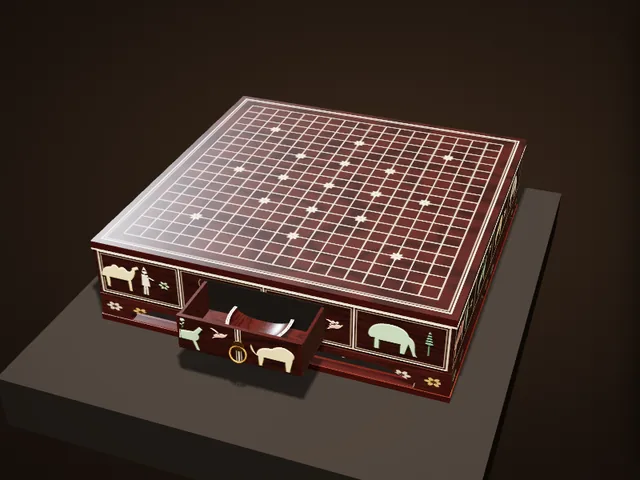
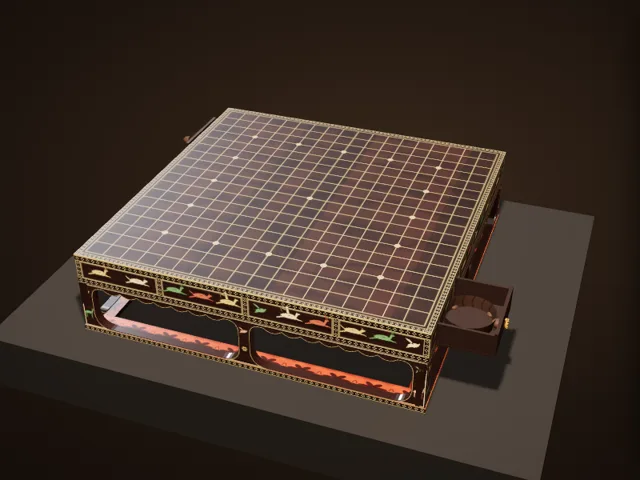
博物館：木画紫檀棊局を正倉院の写真に合わせて作り直し（盤面の花眼配置・側面の菱文帯と狩猟図・床脚の刳り形・引き出し位置）
Claude-Session: https://claude.ai/code/session_01EiWRAZTxRF5M5nk5vdR2jJ

diff --git a/atlas/museum/ex/shosoin.js b/atlas/museum/ex/shosoin.js
@@ -1,50 +1,23 @@
-/* 所蔵品：木画紫檀棊局（正倉院 北倉36） — units: 1 = 1 cm, about 48 cm square and 12.7 cm high.
-   After the Shōsōin's published notes: a go board veneered with shitan (red sandalwood) over a pine core, the playing face
-   ruled 19 × 19 with ivory and set with 17 flower-shaped points (花眼) instead of the usual nine; the sides and legs in marquetry
-   (木画) of plants, animals — camels and elephants among them —, people and mythical creatures; two drawers, on the sides
-   where the players sit, each holding a tray for the stones, one shaped like a turtle and one like a soft-shelled turtle,
-   linked by a crank inside so that pulling one pushes out the other.
-   The exact placing of the 17 points and the pictures on the sides are drawn after photographs in the manner of the piece
-   (estimates where the record is silent); the drawer on the near side is shown a little open with its turtle tray. */
+/* 所蔵品：木画紫檀棊局（正倉院 北倉36） — units: 1 = 1 cm; 49.0 × 48.8 cm, 12.7 cm high (the Shōsōin's record).
+   Rebuilt after the Shōsōin's photographs (CO0000000418–436, 2026-11-21): a go board of shitan veneer, ruled 19 × 19 in ivory,
+   with 17 flower points — every third line round a square on the 4th lines from the edge, and the centre — framed by a band of
+   small ivory lozenges; a shallow body whose sides are divided into four panels by bands of lozenges, each panel with figures in
+   dyed ivory (birds, deer, a lion, camels, horsemen, flowers); two drawers, at diagonally opposite ends of two opposite sides,
+   with a beaded gilt ring pull, holding turtle-shaped trays; the body on a 床脚: on each side two openings with cusped tops,
+   a post between them and the corner legs set with small birds and deer, all standing on a floor rail faced on top with 華角
+   (horn over red, with dark flowers). Heights measured on the photographs: body 4.6, base 8.1 (rail included) — estimates;
+   the figures are drawn after the photographs, not traced. */
 (function () {
   'use strict';
   (window.AtlasEx = window.AtlasEx || {}).shosoin = {
     build(TT, X, K) {
       const G = new TT.Group();
-      const S = 48, H = 12.7, BASE = 4.4, TOPT = 1.0;   // side, height, the open base under the body, the top slab
-      const BODY = H - BASE;                           // the body that holds the drawers
-      /* ---------- shitan veneer (deep purple-brown with dark streaks and a soft sheen) ---------- */
-      const shT = K.tex(1024, 1024, (g, w, h) => K.grain(g, w, h, { a: '#4a1c14', b: '#2a0e0a', seed: 21, sx: .6, sy: 5, warp: .9, pores: .004 }));
+      const S = 48.9, H = 12.7, RAIL = .8, BASE = 8.1, BODY = H - BASE, TOP = .15;
+      const shT = K.tex(1024, 1024, (g, w, h) => K.grain(g, w, h, { a: '#331b14', b: '#20100b', seed: 21, sx: .5, sy: 9, warp: .35, pores: .003 }));
       const shR = K.tex(256, 256, (g, w, h) => K.grain(g, w, h, { a: '#7a7a7a', b: '#4e4e4e', seed: 22, sy: 14 }), { data: true });
       const shitan = K.mat({ map: shT, roughnessMap: shR, color: '#ffffff', roughness: .5, clearcoat: .4, clearcoatRoughness: .35 });
-      const ivory = K.mat({ color: '#efe4cc', roughness: .4, clearcoat: .25, clearcoatRoughness: .4 });
-      /* ---------- the playing face: 19 × 19 ivory lines, 17 flower points, an ivory border ---------- */
-      const N = 19, M = 3.1, P = (S - 2 * M) / (N - 1);   // margin to the outer line, line pitch (≈ 2.32 cm)
-      const faceT = K.tex(2048, 2048, (g, w) => {
-        g.drawImage(shT.image, 0, 0, w, w);
-        const s = w / S, ivoryC = '#f1e6cf';
-        g.fillStyle = 'rgba(20,4,8,.18)'; g.fillRect(0, 0, w, w);
-        // an inlaid border band a little inside the edge
-        g.strokeStyle = ivoryC; g.lineWidth = s * .16; g.strokeRect(s * 1.05, s * 1.05, w - s * 2.1, w - s * 2.1);
-        g.lineWidth = s * .06; g.strokeRect(s * 1.4, s * 1.4, w - s * 2.8, w - s * 2.8);
-        // the lines (ivory strips: slightly uneven width, a darker joint each side)
-        for (let i = 0; i < N; i++) {
-          const p = (M + i * P) * s, lw = s * (.085 + (i % 3) * .006);
-          g.fillStyle = 'rgba(25,10,5,.5)'; g.fillRect(M * s - lw, p - lw / 2 - s * .02, (S - 2 * M) * s + 2 * lw, lw + s * .04); g.fillRect(p - lw / 2 - s * .02, M * s - lw, lw + s * .04, (S - 2 * M) * s + 2 * lw);
-          g.fillStyle = ivoryC; g.fillRect(M * s - lw / 2, p - lw / 2, (S - 2 * M) * s + lw, lw); g.fillRect(p - lw / 2, M * s - lw / 2, lw, (S - 2 * M) * s + lw);
-        }
-        // 17 flower points: the nine of today and eight more between them (placing estimated)
-        const pts = [[3, 3], [3, 9], [3, 15], [9, 3], [9, 9], [9, 15], [15, 3], [15, 9], [15, 15], [6, 6], [6, 12], [12, 6], [12, 12], [9, 6], [6, 9], [12, 9], [9, 12]];
-        pts.forEach(([a, b]) => {
-          const cx = (M + a * P) * s, cy = (M + b * P) * s, R = s * .78;
-          g.save(); g.translate(cx, cy);
-          for (let k = 0; k < 8; k++) { g.rotate(Math.PI / 4); g.beginPath(); g.ellipse(R * .55, 0, R * .5, R * .2, 0, 0, 6.29); g.fillStyle = k % 2 ? '#f4ead6' : '#e8d7b4'; g.fill(); }
-          g.beginPath(); g.arc(0, 0, R * .26, 0, 6.29); g.fillStyle = '#c98a4a'; g.fill(); g.restore();
-        });
-      });
-      const faceMat = K.mat({ map: faceT, color: '#ffffff', roughness: .45, clearcoat: .45, clearcoatRoughness: .3 });
-      /* ---------- the marquetry of the sides: a dark field framed by ivory, scenes in light woods, ivory and stained ivory ---------- */
-      const C = { iv: '#efe3c8', box: '#d9b46a', grn: '#5e8d6a', red: '#b4493a', dk: '#3a1a10', tan: '#b98a55' };
+      const ivory = K.mat({ color: '#e9dcbc', roughness: .4, clearcoat: .25, clearcoatRoughness: .4 });
+      const C = { iv: '#e6d2a4', box: '#d9b46a', grn: '#6f9a62', red: '#c0664c', dk: '#3a1a10', tan: '#c49a5c', pink: '#d99a86' };
       const sil = (g, kind, x, y, k, col) => {   // a figure in silhouette with a few engraved lines (the 撥鏤-like detail)
         g.save(); g.translate(x, y); g.scale(k, k); g.fillStyle = col; g.strokeStyle = 'rgba(40,18,8,.55)'; g.lineWidth = .9; g.beginPath();
         if (kind === 'camel') { g.moveTo(-26, 4); g.quadraticCurveTo(-24, -14, -10, -16); g.quadraticCurveTo(-4, -26, 2, -16); g.quadraticCurveTo(8, -24, 14, -14); g.quadraticCurveTo(20, -12, 22, -22); g.lineTo(30, -26); g.lineTo(31, -21); g.lineTo(26, -18); g.quadraticCurveTo(24, -4, 18, 2);
@@ -65,89 +38,132 @@
           g.moveTo(-16, -30); g.quadraticCurveTo(-22, -21, -16, -12); g.lineTo(-15.4, -12.4); g.quadraticCurveTo(-20.6, -21, -15.4, -29.6); g.closePath(); }
         else if (kind === 'rider0') { g.moveTo(-24, 6); g.quadraticCurveTo(-22, -8, -6, -8); g.lineTo(12, -10); g.lineTo(20, -20); g.lineTo(24, -16); g.lineTo(18, -6); g.quadraticCurveTo(20, 4, 14, 6); g.lineTo(16, 22); g.lineTo(12, 22); g.lineTo(9, 7); g.lineTo(-14, 7); g.lineTo(-18, 22); g.lineTo(-22, 22); g.closePath();
           g.moveTo(-6, -8); g.lineTo(-4, -22); g.arc(-3, -25, 3.2, 0, 6.29); g.moveTo(-2, -18); g.lineTo(8, -26); }
+        else if (kind === 'runner' || kind === 'hound' || kind === 'hunter') {   // the flying gallop of the hunting scenes on the sides
+          const hd = kind === 'hound' ? [[18, -6], [24, -14], [30, -11], [33, -10], [27, -6], [20, 0]] : [[16, -7], [20, -18], [26, -17], [30, -14], [24, -12], [19, -1]];
+          g.moveTo(-20, -4); g.quadraticCurveTo(-8, -12, 10, -10); g.lineTo(hd[0][0], hd[0][1]); hd.slice(1).forEach(([a, b]) => g.lineTo(a, b));
+          g.lineTo(34, 3); g.lineTo(35, 5.5); g.lineTo(28, 4); g.lineTo(18, 3);              // forelegs stretched forward
+          g.quadraticCurveTo(0, 6, -12, 3); g.lineTo(-32, 10); g.lineTo(-33, 7.5); g.lineTo(-27, 5); g.lineTo(-18, 1);   // hind legs stretched back
+          g.quadraticCurveTo(-23, -1, -20, -4); g.closePath();
+          if (kind === 'hound') { g.moveTo(-20, -3); g.quadraticCurveTo(-30, -6, -32, -16); g.quadraticCurveTo(-27, -8, -19, -5.5); g.closePath(); g.moveTo(24, -13); g.lineTo(21, -20); g.lineTo(26, -14); g.closePath(); }
+          else { g.moveTo(-20, -4); g.lineTo(-25, -9); g.lineTo(-21, -6); g.closePath(); }
+          if (kind === 'runner') { g.moveTo(22, -18); g.lineTo(18, -30); g.lineTo(13, -33); g.lineTo(18.6, -31); g.lineTo(20, -36); g.lineTo(20.4, -30); g.lineTo(23.6, -19); g.closePath();
+            g.moveTo(24, -18); g.lineTo(27, -28); g.lineTo(32, -31); g.lineTo(28, -27); g.lineTo(25.4, -18); g.closePath(); }
+          if (kind === 'hunter') {   // the rider turns in the saddle and draws the bow backwards
+            g.moveTo(-4, -10); g.lineTo(-7, -24); g.lineTo(-1, -24); g.lineTo(2, -10); g.closePath(); g.moveTo(-1, -28); g.arc(-4, -28, 3.4, 0, 6.29);
+            g.moveTo(-5, -21); g.lineTo(-17, -23); g.lineTo(-17, -21); g.lineTo(-5, -19); g.closePath();
+            g.moveTo(-17, -33); g.quadraticCurveTo(-24, -22, -17, -11); g.lineTo(-16.2, -11.4); g.quadraticCurveTo(-22.4, -22, -16.2, -32.6); g.closePath(); }
+          g.fill('evenodd'); g.stroke(); g.beginPath(); g.moveTo(-8, -6); g.quadraticCurveTo(2, -3, 12, -6); g.moveTo(14, -4); g.lineTo(17, -12); g.stroke();   // engraved lines
+          g.fillStyle = 'rgba(40,14,6,.75)'; g.beginPath(); g.arc(kind === 'hound' ? 26 : 23.5, kind === 'hound' ? -11 : -15, 1, 0, 6.29); g.fill(); g.restore(); return; }
         else if (kind === 'tree') { g.moveTo(-1.6, 24); g.lineTo(-1.2, -2); g.lineTo(1.2, -2); g.lineTo(1.6, 24); g.closePath(); for (let i = 0; i < 5; i++) { const yy = -4 - i * 6, ww = 14 - i * 2.2; g.moveTo(0, yy - 6); g.quadraticCurveTo(ww, yy, 0, yy + 2); g.quadraticCurveTo(-ww, yy, 0, yy - 6); } }
         else if (kind === 'flower') { for (let i = 0; i < 6; i++) { const a = i * Math.PI / 3; g.moveTo(0, 0); g.ellipse(Math.cos(a) * 6, Math.sin(a) * 6, 6, 3, a, 0, 6.29); } }
         else if (kind === 'lion') { g.moveTo(-24, 4); g.quadraticCurveTo(-22, -12, -4, -12); g.quadraticCurveTo(8, -24, 20, -14); g.quadraticCurveTo(26, -8, 22, 0); g.lineTo(18, 22); g.lineTo(13, 22); g.lineTo(12, 6); g.lineTo(-14, 6); g.lineTo(-17, 22); g.lineTo(-21, 22); g.lineTo(-22, 6);
           g.quadraticCurveTo(-34, 0, -30, -12); g.quadraticCurveTo(-28, -2, -24, 4); g.closePath(); }
         g.fill('evenodd'); g.stroke(); g.restore();
       };
-      // each side is divided into four panels framed in ivory; in each, figures in dyed ivory (pale red, green, yellow) carved in low
-      // relief: pheasants, geese, lions, elephants, camels (one led by a foreigner), deer and a mounted archer, among flowering plants
-      const PAL = ['#e2a493', '#a9cfa2', '#ead69c', '#f0e4c8'];
-      const vign = [[['camel', 'man'], ['flower']], [['rider'], ['bird']], [['lion'], ['flower', 'bird']], [['elephant'], ['tree']],
-        [['deer'], ['bird']], [['bird', 'bird'], ['flower']], [['camel'], ['tree']], [['rider'], ['flower']]];
-      const drawSide = (g, w, h, seed, bump) => {
-        const s = w / S; if (bump) { g.fillStyle = '#000'; g.fillRect(0, 0, w, h); } else { g.drawImage(shT.image, 0, 0, w, h); g.fillStyle = 'rgba(14,4,4,.25)'; g.fillRect(0, 0, w, h); }
-        const iv = bump ? '#9a9a9a' : C.iv;
-        g.strokeStyle = iv; g.lineWidth = s * .16; g.strokeRect(s * .6, s * .5, w - s * 1.2, h - s * 1.0);
-        const pw = (w - s * 1.2) / 4;
-        for (let i = 0; i < 4; i++) {
-          const x0 = s * .6 + i * pw; if (i) { g.beginPath(); g.moveTo(x0, s * .5); g.lineTo(x0, h - s * .5); g.stroke(); }
-          g.save(); g.lineWidth = s * .05; g.strokeRect(x0 + s * .35, s * .85, pw - s * .7, h - s * 1.7); g.restore();
-          const v = vign[(seed * 4 + i) % vign.length], cx = x0 + pw / 2, cy = h / 2 + s * .35, k = s * .09;
-          const col = n => bump ? '#ffffff' : PAL[(seed + i + n) % PAL.length];
-          // the main figure(s), then the filler plant / bird
-          v[0].forEach((kd, n) => sil(g, kd, cx + (n - (v[0].length - 1) / 2) * pw * .34 - (v[1].length ? pw * .1 : 0), cy, k * (kd === 'bird' ? .9 : 1.12), col(n)));
-          v[1].forEach((kd, n) => sil(g, kd, cx + pw * .3, cy - s * (kd === 'bird' ? 1.3 : .2) + n * s * 1.4, k * (kd === 'tree' ? .8 : .7), kd === 'tree' ? (bump ? '#c0c0c0' : C.grn) : col(3 + n)));
+
+      // a band of small ivory lozenges (the "diamond chain" round every edge in the photographs)
+      const chain = (g, x0, y0, len, wd, vert) => { g.save(); g.translate(x0, y0); if (vert) g.rotate(Math.PI / 2);
+        g.fillStyle = 'rgba(14,6,4,.35)'; g.fillRect(0, 0, len, wd); g.fillStyle = '#d8bb7c'; g.fillRect(0, 0, len, wd * .07); g.fillRect(0, wd * .93, len, wd * .07);
+        // each motif is a lozenge of four small ivory squares (as on the photographed sides), a dark dot in the middle
+        const n = Math.max(1, Math.round(len / (wd * .95))), q = wd * .13;
+        for (let i = 0; i < n; i++) { const cx = (i + .5) * len / n, cy = wd / 2; g.save(); g.translate(cx, cy); g.rotate(Math.PI / 4); g.fillStyle = '#e4d2a2';
+          [[-1, -1], [1, -1], [-1, 1], [1, 1]].forEach(([u, v]) => g.fillRect(u * q * 1.15 - q / 2, v * q * 1.15 - q / 2, q, q)); g.restore(); }
+        g.restore(); };
+      /* ---------- the playing face ---------- */
+      const N = 19, BAND = .7, M = 1.15, P = (S - 2 * M) / (N - 1);
+      const faceT = K.tex(2048, 2048, (g, w) => {
+        g.drawImage(shT.image, 0, 0, w, w); const s = w / S;
+        // the veneer is laid in strips running across the board, each a little different in tone (as in the top photograph)
+        let sx0 = 0, sd = 7; const rnd = () => (sd = (sd * 16807) % 2147483647) / 2147483647;
+        while (sx0 < w) { const sw = s * (1.6 + rnd() * 2.2), t = rnd(); g.fillStyle = t < .5 ? `rgba(10,3,2,${.1 + t * .35})` : `rgba(120,40,30,${(t - .5) * .22})`; g.fillRect(sx0, 0, sw, w); sx0 += sw; }
+        chain(g, 0, 0, w, BAND * s, false); chain(g, 0, w - BAND * s, w, BAND * s, false); chain(g, BAND * s, 0, w, BAND * s, true); chain(g, w, 0, w, BAND * s, true);
+        for (let i = 0; i < N; i++) { const p = (M + i * P) * s, lw = s * .055;
+          g.fillStyle = 'rgba(20,8,4,.5)'; g.fillRect(M * s - lw, p - lw / 2 - s * .02, (S - 2 * M) * s + 2 * lw, lw + s * .04); g.fillRect(p - lw / 2 - s * .02, M * s - lw, lw + s * .04, (S - 2 * M) * s + 2 * lw);
+          g.fillStyle = '#d6bd88'; g.fillRect(M * s - lw / 2, p - lw / 2, (S - 2 * M) * s + lw, lw); g.fillRect(p - lw / 2, M * s - lw / 2, lw, (S - 2 * M) * s + lw); }
+        // 17 flower points (from the top photograph): lines 4, 7, 10, 13, 16 round a square on the 4th lines, and the centre
+        const pts = [[9, 9]]; [3, 6, 9, 12, 15].forEach(k => { pts.push([3, k], [15, k]); if (k !== 3 && k !== 15) pts.push([k, 3], [k, 15]); });
+        pts.forEach(([a, b]) => { const cx = (M + a * P) * s, cy = (M + b * P) * s, R = s * .42; g.save(); g.translate(cx, cy);
+          g.beginPath(); g.arc(0, 0, R, 0, 6.29); g.fillStyle = '#2a140c'; g.fill();
+          g.beginPath(); g.arc(0, 0, R * .82, 0, 6.29); g.strokeStyle = '#e2cf9e'; g.lineWidth = R * .22; g.stroke();   // an ivory ring (the flower's rim)
+          for (let k = 0; k < 8; k++) { g.rotate(Math.PI / 4); g.beginPath(); g.ellipse(R * .4, 0, R * .26, R * .1, 0, 0, 6.29); g.fillStyle = '#c9a56c'; g.fill(); }
+          g.beginPath(); g.arc(0, 0, R * .16, 0, 6.29); g.fillStyle = '#ecdcb4'; g.fill(); g.restore(); });
+      });
+      const faceMat = K.mat({ map: faceT, color: '#ffffff', roughness: .55, clearcoat: .12, clearcoatRoughness: .4 });
+      /* ---------- the body's sides: lozenge bands, four panels of figures in dyed ivory ---------- */
+      const VIGN = [   // after the photographs: running deer and hounds, mounted archers, birds; camels led by a foreigner on one side
+        [['runner', 1], ['hound', 2]], [['runner', 0], ['hound', 3], ['hunter', 1]], [['bird', 0], ['hunter', 2], ['runner', 3]], [['hound', 1], ['runner', 0], ['bird', 2]],
+        [['man', 1], ['camel', 0], ['camel', 3]], [['hunter', 0], ['runner', 2]], [['runner', 3], ['hound', 0], ['bird', 1]], [['flower', 2], ['hunter', 3], ['hound', 0]],
+      ];
+      const PAL = [C.iv, C.red, C.grn, '#d8b878'];
+      const sideTex = (seed, drawerAt) => K.tex(2048, Math.round(2048 * (BODY - TOP) / S), (g, w, h) => {
+        g.drawImage(shT.image, 0, 0, w, h); const s = w / S, cb = s * .85;
+        chain(g, 0, 0, w, cb, false); chain(g, 0, h - cb, w, cb, false);
+        const pw = w / 4;
+        for (let i = 0; i < 4; i++) { const x0 = i * pw;
+          chain(g, x0 + s * .75, cb, h - 2 * cb, s * .75, true);
+          g.strokeStyle = C.iv; g.lineWidth = s * .05; g.strokeRect(x0 + s * .85, cb + s * .1, pw - s * .95, h - 2 * cb - s * .2);
+          const v = VIGN[(seed * 4 + i) % VIGN.length], cy = h / 2;
+          v.forEach(([kd, c], n) => { const x = x0 + s * .6 + (n + .5) * (pw - s * .7) / v.length; sil(g, kd, x, cy, s * (kd === 'flower' ? .05 : kd === 'camel' || kd === 'man' ? .05 : .052), kd === 'flower' ? C.grn : PAL[(c + seed) % 4]); });
         }
-        // small six-petalled flowers along the frame (ebony centres, ivory petals)
-        for (let i = 0; i < 26; i++) { const x = s * 1.6 + i * (w - s * 3.2) / 25; [s * .5, h - s * .5].forEach(y => { g.beginPath(); g.arc(x, y, s * .11, 0, 6.29); g.fillStyle = bump ? '#808080' : C.box; g.fill(); }); }
+        chain(g, w, cb, h - 2 * cb, s * .75, true);
+      });
+      const sides = [0, 1, 2, 3].map(i => K.mat({ map: sideTex(i), color: '#ffffff', roughness: .48, clearcoat: .35, clearcoatRoughness: .35 }));
+      const add = (geo, m, x, y, z) => { const o = new TT.Mesh(geo, m); o.position.set(x, y, z); G.add(o); return o; };
+      add(new TT.BoxGeometry(S, BODY - TOP, S), [sides[0], sides[1], shitan, shitan, sides[2], sides[3]], 0, BASE + (BODY - TOP) / 2, 0);
+      const edgeT = K.tex(1024, 64, (g, w, h) => { g.fillStyle = '#c9a564'; g.fillRect(0, 0, w, h); g.fillStyle = 'rgba(50,24,8,.5)'; for (let x = 0; x < w; x += 8) g.fillRect(x, h * .35, 3, h * .3); });
+      const edgeM = K.mat({ map: edgeT, color: '#ffffff', roughness: .45, clearcoat: .35 });
+      add(new TT.BoxGeometry(S + .1, TOP, S + .1), [edgeM, edgeM, faceMat, shitan, edgeM, edgeM], 0, H - TOP / 2, 0);
+      /* ---------- the 床脚: corner legs, a post in the middle of each side, openings with cusped tops, the floor rail ---------- */
+      const LEG = 1.8, POST = 1.6, OH = BASE - RAIL - .05;   // leg / post width; the openings' height (the cusps hang right under the body)
+      const skirt = new TT.Shape(); skirt.moveTo(-S / 2, 0); skirt.lineTo(S / 2, 0); skirt.lineTo(S / 2, BASE - RAIL); skirt.lineTo(-S / 2, BASE - RAIL); skirt.closePath();
+      const open = (x0, x1) => { const p = new TT.Path(), rb = 2.6, rt = 2.0, top = OH, xa0 = x0 + rt, xa1 = x1 - rt, nC = 7, cw = (xa1 - xa0) / nC;
+        // a rounded opening: large curves at the bottom corners, a big arc at each upper end, and a row of cusps along the top (photographs)
+        p.moveTo(x0 + rb, 0); p.lineTo(x1 - rb, 0); p.quadraticCurveTo(x1, 0, x1, rb); p.lineTo(x1, top - rt - .4); p.quadraticCurveTo(x1, top - .2, xa1, top - .5);
+        for (let i = nC; i > 0; i--) { const xa = xa0 + i * cw, xb = xa - cw; p.quadraticCurveTo((xa + xb) / 2, top - 1.5, xb, top - .5); }
+        p.quadraticCurveTo(x0, top - .2, x0, top - rt - .4); p.lineTo(x0, rb); p.quadraticCurveTo(x0, 0, x0 + rb, 0); return p; };
+      const half = (S - 2 * LEG - POST) / 2;
+      skirt.holes.push(open(-S / 2 + LEG, -S / 2 + LEG + half), open(S / 2 - LEG - half, S / 2 - LEG));
+      const skG = new TT.ExtrudeGeometry(skirt, { depth: 1.2, bevelEnabled: true, bevelThickness: .06, bevelSize: .06, bevelSegments: 1, curveSegments: 10 });
+      // the legs' faces: dark shitan edged in ivory, little birds and deer set into the legs and the post
+      const legT = K.tex(2048, Math.round(2048 * (BASE - RAIL) / S), (g, w, h) => { g.drawImage(shT.image, 0, 0, w, h); const s = w / S;
+        g.strokeStyle = C.iv; g.lineWidth = s * .08; g.strokeRect(s * .15, s * .1, w - s * .3, h - s * .2);
+        g.strokeStyle = '#d8bb7c'; g.lineWidth = s * .09; skirt.holes.forEach(hp => { g.beginPath(); hp.getPoints(24).forEach((p, i) => { const X = (p.x + S / 2) * s, Y = h - p.y * s; i ? g.lineTo(X, Y) : g.moveTo(X, Y); }); g.closePath(); g.stroke(); });
+        [[LEG / 2, 'bird', .8], [LEG / 2, 'deer', .3], [S / 2, 'bird', .75], [S / 2, 'flower', .35], [S - LEG / 2, 'bird', .8], [S - LEG / 2, 'deer', .3]].forEach(([x, kd, fy], i) => sil(g, kd, x * s, h * (1 - fy), s * .035, [C.box, C.grn, C.pink][i % 3])); });
+      legT.repeat.set(1 / S, 1 / (BASE - RAIL)); legT.offset.set(.5, 0);
+      const legM = K.mat({ map: legT, color: '#ffffff', roughness: .5, clearcoat: .35, clearcoatRoughness: .35 });
+      for (let i = 0; i < 4; i++) { const m = new TT.Mesh(skG, [legM, shitan]), a = i * Math.PI / 2; m.position.set(Math.sin(a) * (S / 2 - 1.2), RAIL, Math.cos(a) * (S / 2 - 1.2)); m.rotation.y = a; G.add(m); }
+      add(new TT.BoxGeometry(S - 2.4, .5, S - 2.4), shitan, 0, BASE - .25, 0);   // the floor of the body
+      // the floor rail: horn over red (華角), dark flowers; its outer faces with the lozenge band
+      const kakT = K.tex(1024, 128, (g, w, h) => { g.fillStyle = '#9c3a24'; g.fillRect(0, 0, w, h); const n = K.noise(5);
+        for (let x = 0; x < w; x += 4) for (let y = 0; y < h; y += 4) { const v = n(x / 40, y / 40, 3); g.fillStyle = `rgba(230,110,50,${(v - .5) * .4 + .08})`; g.fillRect(x, y, 4, 4); }
+        for (let i = 0; i < 10; i++) { const cx = (i + .5) * w / 10, cy = h / 2; g.fillStyle = 'rgba(40,14,8,.85)'; for (let k = 0; k < 6; k++) { const a = k / 6 * 6.283; g.beginPath(); g.ellipse(cx + Math.cos(a) * h * .18, cy + Math.sin(a) * h * .18, h * .14, h * .07, a, 0, 6.29); g.fill(); }
+          g.beginPath(); g.arc(cx, cy, h * .08, 0, 6.29); g.fill(); g.strokeStyle = 'rgba(40,14,8,.7)'; g.lineWidth = 3; g.beginPath(); g.moveTo(cx + h * .35, cy); g.quadraticCurveTo(cx + w / 20, cy - h * .35, cx + w / 10 - h * .35, cy); g.stroke(); } });
+      const kak = K.mat({ map: kakT, color: '#ffffff', roughness: .28, clearcoat: .85, clearcoatRoughness: .18 });
+      const railSide = K.tex(2048, Math.round(2048 * RAIL / S), (g, w, h) => { g.drawImage(shT.image, 0, 0, w, h); chain(g, 0, 0, w, h, false); });
+      const rsM = K.mat({ map: railSide, color: '#ffffff', roughness: .45, clearcoat: .35 });
+      const RW = 3.0;
+      [[S + .3, RW, 0, S / 2 - RW / 2 + .15], [S + .3, RW, 0, -S / 2 + RW / 2 - .15]].forEach(([w, d, x, z]) => add(new TT.BoxGeometry(w, RAIL, d), [rsM, rsM, kak, shitan, z > 0 ? rsM : shitan, z > 0 ? shitan : rsM], x, RAIL / 2, z));
+      [[RW, S - 2 * RW + .3, S / 2 - RW / 2 + .15, 0], [RW, S - 2 * RW + .3, -S / 2 + RW / 2 - .15, 0]].forEach(([w, d, x, z]) => { const k2 = kak.clone(); k2.map = kakT.clone(); k2.map.center.set(.5, .5); k2.map.rotation = Math.PI / 2; k2.map.needsUpdate = true; add(new TT.BoxGeometry(w, RAIL, d), [x > 0 ? rsM : shitan, x > 0 ? shitan : rsM, k2, shitan, shitan, shitan], x, RAIL / 2, z); });
+      /* ---------- the drawers: at diagonally opposite ends of the two side faces (±x); the near one pulled out ---------- */
+      const DW = 10.5, DH = BODY - TOP - .9, OUT = 7.2, gilt = K.mat({ color: '#d6a84c', roughness: .3, metalness: 1 });
+      const dark = K.mat({ color: '#2a1810', roughness: .6 });
+      const DG = new TT.Group(); DG.rotation.y = 0; G.add(DG);
+      const drawer = (sx, z, out) => { const g2 = new TT.Group(); g2.position.set(sx * (S / 2 + out), BASE + (BODY - TOP) / 2, z); g2.rotation.y = sx > 0 ? Math.PI / 2 : -Math.PI / 2; DG.add(g2);
+        const f = new TT.Mesh(new TT.BoxGeometry(DW, DH, .45), dark); g2.add(f);
+        const ring = new TT.Mesh(new TT.TorusGeometry(.55, .13, 8, 24), gilt); ring.position.set(0, -.35, .5); g2.add(ring);
+        for (let k = 0; k < 10; k++) { const a = k / 10 * 6.283, b = new TT.Mesh(new TT.SphereGeometry(.12, 8, 6), gilt); b.position.set(Math.cos(a) * .55, -.35 + Math.sin(a) * .55, .62); g2.add(b); }   // the beaded ring
+        const knob = new TT.Mesh(new TT.SphereGeometry(.22, 10, 8), gilt); knob.position.set(0, .25, .4); g2.add(knob);
+        if (out > .1) { const sd = new TT.BoxGeometry(.35, DH - .3, out + 1); [-DW / 2 + .2, DW / 2 - .2].forEach(x => { const m = new TT.Mesh(sd, dark); m.position.set(x, -.15, -(out + 1) / 2); g2.add(m); });
+          const bt = new TT.Mesh(new TT.BoxGeometry(DW, .3, out + 1), dark); bt.position.set(0, -DH / 2 + .15, -(out + 1) / 2); g2.add(bt);
+          // the turtle tray: a round open bowl with a shell-segmented rim, head and feet
+          const tr = new TT.Group(); tr.position.set(0, -DH / 2 + .3, -out / 2 - .6); g2.add(tr);
+          const rimT = K.tex(512, 64, (g, w, h) => { g.fillStyle = '#3a2418'; g.fillRect(0, 0, w, h); g.strokeStyle = '#1a0c06'; g.lineWidth = 3; for (let x = 0; x < w; x += 32) { g.beginPath(); g.moveTo(x, 0); g.lineTo(x + 8, h / 2); g.lineTo(x, h); g.stroke(); } });
+          const bowl = new TT.Mesh(new TT.CylinderGeometry(3.4, 3.1, 1.8, 40, 1, true), K.mat({ map: rimT, color: '#ffffff', roughness: .55, side: TT.DoubleSide })); bowl.position.y = .9; tr.add(bowl);
+          const inner = new TT.Mesh(new TT.CircleGeometry(3.1, 40), dark); inner.rotation.x = -Math.PI / 2; inner.position.y = .2; tr.add(inner);
+          const hd = new TT.Mesh(new TT.SphereGeometry(.75, 14, 10), K.mat({ color: '#4a2a18', roughness: .5 })); hd.scale.set(1, .8, 1.3); hd.position.set(0, .9, 3.8); tr.add(hd);
+          [[2.4, 2.4], [-2.4, 2.4], [2.4, -2.4], [-2.4, -2.4]].forEach(([x, z]) => { const ft = new TT.Mesh(new TT.SphereGeometry(.6, 10, 8), K.mat({ color: '#4a2a18', roughness: .5 })); ft.scale.set(1.2, .5, .9); ft.position.set(x, .3, z); tr.add(ft); }); }
       };
-      const sideTex = seed => K.tex(2048, Math.round(2048 * BODY / S), (g, w, h) => drawSide(g, w, h, seed, false));
-      const sideBump = seed => K.tex(1024, Math.round(1024 * BODY / S), (g, w, h) => drawSide(g, w, h, seed, true), { data: true });
-      const sides = [0, 1, 2, 3].map(i => K.mat({ map: sideTex(i), bumpMap: sideBump(i), bumpScale: 2.2, color: '#ffffff', roughness: .48, clearcoat: .35, clearcoatRoughness: .35 }));
-      /* ---------- the body: top slab with the face, the decorated sides ---------- */
-      const body = new TT.Mesh(new TT.BoxGeometry(S, BODY - TOPT, S), [sides[0], sides[1], shitan, shitan, sides[2], sides[3]]);
-      body.position.y = BASE + (BODY - TOPT) / 2; G.add(body);
-      const top = new TT.Mesh(new TT.BoxGeometry(S + .3, TOPT, S + .3), [shitan, shitan, faceMat, shitan, shitan, shitan]); top.position.y = H - TOPT / 2; G.add(top);
-      // ivory edging round the top slab
-      const edge = (w, d, x, z) => { const m = new TT.Mesh(new TT.BoxGeometry(w, .22, d), ivory); m.position.set(x, H - TOPT - .11, z); G.add(m); };
-      edge(S + .34, .12, 0, S / 2 + .15); edge(S + .34, .12, 0, -S / 2 - .15); edge(.12, S + .34, S / 2 + .15, 0); edge(.12, S + .34, -S / 2 - .15, 0);
-      /* ---------- the base: a skirt on each side cut with two cusped arches (格狭間), the corners as feet ---------- */
-      const skirt = new TT.Shape(); skirt.moveTo(-S / 2, 0); skirt.lineTo(S / 2, 0); skirt.lineTo(S / 2, BASE); skirt.lineTo(-S / 2, BASE); skirt.closePath();
-      const arch = (cx, w, h) => { const p = new TT.Path(), x0 = cx - w / 2, x1 = cx + w / 2, y0 = 0, y1 = h;
-        p.moveTo(x0 + .5, y0); p.lineTo(x1 - .5, y0); p.quadraticCurveTo(x1, y0 + .1, x1 - .1, y0 + h * .35); p.quadraticCurveTo(x1 - w * .12, y0 + h * .55, x1 - w * .2, y1 - .5);
-        p.quadraticCurveTo(cx + w * .12, y1 + .1, cx + w * .02, y1 - .55); p.quadraticCurveTo(cx, y1 - .2, cx - w * .02, y1 - .55); p.quadraticCurveTo(cx - w * .12, y1 + .1, x0 + w * .2, y1 - .5);
-        p.quadraticCurveTo(x0 + w * .12, y0 + h * .55, x0 + .1, y0 + h * .35); p.quadraticCurveTo(x0, y0 + .1, x0 + .5, y0); return p; };
-      skirt.holes.push(arch(-S / 4 + .8, S / 2 - 6.5, BASE - 1.1), arch(S / 4 - .8, S / 2 - 6.5, BASE - 1.1));
-      const skG = new TT.ExtrudeGeometry(skirt, { depth: 1.1, bevelEnabled: true, bevelThickness: .08, bevelSize: .08, bevelSegments: 2, curveSegments: 12 });
-      const legT = K.tex(1024, 128, (g, w, h) => { g.drawImage(shT.image, 0, 0, w, h); for (let i = 0; i < 12; i++) { const x = (i + .5) * w / 12; sil(g, 'flower', x, h * .5, h / 60, i % 2 ? C.box : C.iv); } });
-      legT.repeat.set(1 / S, 1 / BASE); legT.offset.set(.5, 0);
-      const legMat = K.mat({ map: legT, color: '#ffffff', roughness: .5, clearcoat: .35, clearcoatRoughness: .35 });
-      // the floor rail (畳摺) the skirts stand on: its top faced with 華角 (thin dyed horn, a translucent amber-red)
-      const RAIL = .9, kakaku = K.mat({ color: '#7a2a18', roughness: .32, clearcoat: .8, clearcoatRoughness: .2 });
-      [[S + .4, S / 2 - .7, 0], [S + .4, -S / 2 + .7, 0]].forEach(([w, z]) => { const r = new TT.Mesh(new TT.BoxGeometry(w, RAIL, 1.8), [shitan, shitan, kakaku, shitan, shitan, shitan]); r.position.set(0, RAIL / 2, z); G.add(r); });
-      [[S / 2 - .7], [-S / 2 + .7]].forEach(([x]) => { const r = new TT.Mesh(new TT.BoxGeometry(1.8, RAIL, S - 3.2), [shitan, shitan, kakaku, shitan, shitan, shitan]); r.position.set(x, RAIL / 2, 0); G.add(r); });
-      for (let i = 0; i < 4; i++) {
-        const m = new TT.Mesh(skG, [legMat, shitan]); const a = i * Math.PI / 2;
-        m.position.set(Math.sin(a) * (S / 2 - 1.1), RAIL, Math.cos(a) * (S / 2 - 1.1)); m.scale.y = (BASE - RAIL) / BASE; m.rotation.y = a; G.add(m);
-      }
-      const floor = new TT.Mesh(new TT.BoxGeometry(S - 2.2, .6, S - 2.2), shitan); floor.position.y = BASE - .3; G.add(floor);
-      /* ---------- the near drawer, a little open, with the turtle tray ---------- */
-      const DW = 16, DH = BODY - TOPT - 2.4, OUT = 7.5;
-      // the drawer front carries its own slice of the side's marquetry (so the panels run on when it is shut)
-      const slice = (m) => { const c = m.clone(), BH = BODY - TOPT; ['map', 'bumpMap'].forEach(k => { const t = m[k].clone(); t.repeat.set(DW / S, DH / BH); t.offset.set((S - DW) / 2 / S, 1.2 / BH); t.needsUpdate = true; c[k] = t; }); return c; };
-      const dfM = slice(sides[0]);
-      const dFront = new TT.Mesh(new TT.BoxGeometry(DW, DH, .5), [shitan, shitan, shitan, shitan, dfM, shitan]); dFront.position.set(0, BASE + 1.2 + DH / 2, S / 2 + OUT); G.add(dFront);
-      const dSide = new TT.BoxGeometry(.4, DH - .2, OUT + .5); [-DW / 2 + .2, DW / 2 - .2].forEach(x => { const m = new TT.Mesh(dSide, shitan); m.position.set(x, BASE + 1.2 + DH / 2 - .1, S / 2 + OUT / 2); G.add(m); });
-      const dBot = new TT.Mesh(new TT.BoxGeometry(DW, .3, OUT + .5), shitan); dBot.position.set(0, BASE + 1.35, S / 2 + OUT / 2); G.add(dBot);
-      // the opening it leaves in the side (a dark shadow box)
-      // the drawers' gilt ring pulls (the inventory: "rings on both sides of the board"); the far drawer is shut
-      const gilt = K.mat({ color: '#d4a64a', roughness: .3, metalness: 1 });
-      const pull = (z, out) => { const g = new TT.Group(); g.position.set(0, BASE + 1.2 + DH / 2, z); g.rotation.y = out > 0 ? 0 : Math.PI;
-        const plate = new TT.Mesh(new TT.CylinderGeometry(.75, .75, .12, 20), gilt); plate.rotation.x = Math.PI / 2; plate.position.z = .3; g.add(plate);
-        const ring = new TT.Mesh(new TT.TorusGeometry(1.05, .12, 10, 28), gilt); ring.position.set(0, -1.05, .52); ring.rotation.x = -.25; g.add(ring); G.add(g); };
-      pull(S / 2 + OUT, 1); pull(-S / 2, -1);
-      const farF = new TT.Mesh(new TT.BoxGeometry(DW, DH, .05), [shitan, shitan, shitan, shitan, shitan, slice(sides[1])]); farF.position.set(0, BASE + 1.2 + DH / 2, -S / 2 - .03); G.add(farF);
-      const hole = new TT.Mesh(new TT.BoxGeometry(DW + .1, DH + .1, .4), K.mat({ color: '#0d0705', roughness: 1 })); hole.position.set(0, BASE + 1.2 + DH / 2, S / 2 - .1); G.add(hole);
-      // the turtle tray: a shallow shell-shaped dish with head, feet and tail, in shitan with ivory rims
-      const tr = new TT.Group();
-      const bowl = shitan.clone(); bowl.side = TT.DoubleSide;
-      const shell = new TT.Mesh(new TT.SphereGeometry(1, 40, 16, 0, Math.PI * 2, 0, Math.PI / 2), bowl); shell.scale.set(6.2, 1.6, 4.6); shell.rotation.x = Math.PI; shell.position.y = 1.7; tr.add(shell);
-      const rim = new TT.Mesh(new TT.TorusGeometry(1, .06, 8, 48), ivory); rim.rotation.x = Math.PI / 2; rim.scale.set(6.2, 4.6, 1); rim.position.y = 1.7; tr.add(rim);
-      const head = new TT.Mesh(new TT.SphereGeometry(.9, 16, 12), shitan); head.scale.set(1.5, .8, 1); head.position.set(7, 1.2, 0); tr.add(head);
-      [[4, 3.8], [4, -3.8], [-4, 3.8], [-4, -3.8]].forEach(([x, z]) => { const f = new TT.Mesh(new TT.SphereGeometry(.8, 12, 8), shitan); f.scale.set(1.3, .5, .9); f.position.set(x, .6, z); tr.add(f); });
-      tr.rotation.y = Math.PI / 2; tr.position.set(0, BASE + 1.5, S / 2 + OUT - 6.4); tr.scale.setScalar(.85); G.add(tr);
+      drawer(1, S / 2 - DW / 2 - 3.2, OUT); drawer(-1, -S / 2 + DW / 2 + 3.2, 1.2);
       return G;
     },
   };

diff --git a/atlas/museum/gallery-en.js b/atlas/museum/gallery-en.js
@@ -38,7 +38,7 @@
         ['The turtle tray', 'The stone holder in the drawer. The other drawer holds one shaped like a soft-shelled turtle.'],
         ['The gilt rings', 'The rings that pull the drawers — the 756 inventory notes "rings set on both sides of the board".'],
         ['The base and its rail', 'The top of the rail under the base is faced with kakaku, thin sheets of horn.']],
-      model: 'The size, the 19 lines and 17 flower points, the four panels on each side and their dyed-ivory subjects, the drawers with their turtle trays and linked mechanism, the rings and the horn-faced rail follow the record and published descriptions. The exact placing of the flower points, which figures go in which panel and how they are drawn, the shape of the base and the size of the rings are estimates. The near drawer is shown a little open.',
+      model: 'Built by comparing with the Shōsōin\'s published photographs (top, oblique, each side, the drawers). The size, the 19 lines and the placing of the 17 flower points, the shitan grain, the lozenge bands, the hunting scenes in the four panels of each side (running deer and hounds, mounted archers turning to shoot, a foreigner leading camels), the two drawers at diagonally opposite corners with their rings, the cut-out openings of the base with their row of small cusps, and the horn-faced floor rail follow the photographs. How each figure is drawn, the details of the turtle tray and the depth of the drawers are estimates. The near drawer is shown open.',
       src: [['Shōsōin, "木画紫檀碁局"', 'https://shosoin.kunaicho.go.jp/treasures/?id=0000010084'], ['Shōsōin bulletin, “The Go Game Board of Red Sandalwood with Marquetry and its Box”', 'https://shosoin.kunaicho.go.jp/api/bulletins/35/pdf/0354113116'], ['Baidu Baike, "木画紫檀棋局" (the side panels, the rings)', 'https://baike.baidu.com/item/%E6%9C%A8%E7%94%BB%E7%B4%AB%E6%AA%80%E6%A3%8B%E5%B1%80/18040591']] },
     sugoroku: { name: 'Shitan Sugoroku Board with Marquetry', alt: 'Emperor Shōmu\'s board: the oldest sugoroku board in Japan', date: '8th century (Nara period)', where: 'Japan (Nara)', found: 'Listed in the Kokka chinpō-chō, the inventory of Emperor Shōmu\'s belongings offered to the Great Buddha of Tōdai-ji; its storage case survives too',
       museum: 'Shōsōin (Imperial Household Agency)', no: 'North Section 37', mat: 'Wood veneered with shitan (red sandalwood); marquetry (mokuga) of ivory, green-stained deer antler, boxwood, ebony, shitan and bamboo', size: '54.3 × 31.0 cm, 16.7 cm high',

diff --git a/atlas/museum/gallery-ja.js b/atlas/museum/gallery-ja.js
@@ -39,7 +39,7 @@
         ['亀の形の容器', '引き出しの中の碁石入れ。もう一方の引き出しにはスッポンの形の容器が入っています。'],
         ['金の環', '『国家珍宝帳』に「局の両辺に環を著く」とある、引き出しの引き手の環。'],
         ['床脚と畳摺', '盤を支える床脚の下の畳摺（台座の枠）の上面には、薄く削った角を貼る「華角貼」がほどこされています。']],
-      model: '寸法、19路と17の花眼、側面の4区画と染め象牙の題材、引き出しと亀・スッポン形の容器と連動の仕掛け、環、畳摺の華角貼は記録と解説に従いました。花眼の正確な配置、各区画の図柄の組み合わせと描き方、床脚の形、環の大きさは推定です。手前の引き出しは少し開けて展示しています。',
+      model: '正倉院が公開している写真（上面・斜め・各側面・引き出し）と見比べて作りました。寸法、19路と17の花眼の位置、紫檀の筋、菱文の帯、側面4区画の狩猟図（走る鹿と犬、振り返って射る騎馬の人、ラクダを引く異国の人）、対角の位置にある2つの引き出しと環、床脚の刳り形（上縁に並ぶ小さな山形）、畳摺の華角貼は写真に合わせています。図柄の一つ一つの描き方、亀形容器の細部、引き出しの奥行きは推定です。手前の引き出しは開けて展示しています。',
       src: [['正倉院「木画紫檀碁局」', 'https://shosoin.kunaicho.go.jp/treasures/?id=0000010084'], ['正倉院紀要「木画紫檀碁局と金銀亀甲碁局龕」', 'https://shosoin.kunaicho.go.jp/api/bulletins/35/pdf/0354113116'], ['百度百科「木画紫檀棋局」（側面の図柄・環）', 'https://baike.baidu.com/item/%E6%9C%A8%E7%94%BB%E7%B4%AB%E6%AA%80%E6%A3%8B%E5%B1%80/18040591']] },
     sugoroku: { name: '木画紫檀双六局', alt: '聖武天皇ゆかりの、日本最古の双六盤', date: '8世紀（奈良時代）', where: '日本（奈良）', found: '『国家珍宝帳』に記された、聖武天皇の遺愛品を東大寺の大仏に献じた宝物のひとつ。収納容器（漆縁籧篨双六局龕）も残る',
       museum: '正倉院（宮内庁）', no: '北倉37', mat: '木製に紫檀の薄板貼り、木画（象牙・緑に染めた鹿角・黄楊木・黒檀・紫檀・竹）', size: '縦54.3cm・横31.0cm・高さ16.7cm',

diff --git a/atlas/museum/gallery.js b/atlas/museum/gallery.js
@@ -10,14 +10,14 @@
    (a turn, a zoom, the slow turntable) and never while the window is in the background. */
 (function () {
   'use strict';
-  const V = 13;
+  const V = 14;
   /* ---------- the pieces: id, the game it belongs to, its scale (cm per model unit), the camera's start, the details ----------
      lock: { game, ach } → open after that many achievements of the game. src: the files the piece needs (besides ex/<id>.js) */
   const EX = [
     { id: 'ur', game: 'ur', src: () => window.AtlasLazy ? AtlasLazy.need('ur') : 0, cm: 30.1 / 8.52, view: [-.45, .7, .92],
       spots: [[-3.5, .44, -1], [-.5, .44, 0], [1, .44, 0], [3.5, .44, -1], [-2.5, .22, 1.62]] },
     { id: 'senet', game: 'senet', cm: 1, view: [.62, .4, .9], spots: [[-11, 28.4, -3.5], [17, 28.4, 4], [-6, 23.6, 7.2], [22.5, 23.5, 0], [23.8, 2.7, 7.4], [-10, 1.9, 7.6], [-2, .9, 13.8]] },
-    { id: 'shosoin', game: 'go', cm: 1, view: [.35, .58, .82], spots: [[0, 12.8, 0], [-10.6, 12.8, -10.6], [24.3, 7, 10], [0, 6.6, 26], [0, 7.0, 32.1], [-14, .95, 23.8]] },
+    { id: 'shosoin', game: 'go', cm: 1, view: [.35, .58, .82], spots: [[0, 12.8, 0], [-15.5, 12.8, -15.5], [0, 10.4, 24.6], [27.4, 10.2, 15.8], [32.2, 10.0, 15.8], [-14, .8, 23.2]] },
     { id: 'sugoroku', game: 'backgammon', cm: 1, view: [.45, .55, .92],
       spots: [[0, 12.45, 11.5], [-12, 12.45, 11.5], [-23.35, 12.45, 0], [8, 14.6, 15.55], [-8, 5, 15.5], [5.7, 13.2, -1.3]] },
     { id: 'pyrgus', game: 'backgammon', cm: 1, view: [.55, .32, 1], spots: [[0, 18.6, 4.6], [4.6, 20.4, 0], [0, 12, 0], [0, 3.2, 4.6], [1.4, .9, 6.3]] },

diff --git a/atlas/museum.js b/atlas/museum.js
@@ -32,7 +32,7 @@
   const ROOMS = [
     { id: 'map', ready: () => !!window.AtlasMap, render: (el, c) => AtlasMap.render(el, c) },
     { id: 'tree', src: ['museum/tree.js?v=2'], ready: () => !!window.AtlasTree, render: (el, c) => AtlasTree.render(el, c) },
-    { id: 'gallery', src: ['museum/gallery.js?v=13'], ready: () => !!window.AtlasGallery, render: (el, c) => AtlasGallery.render(el, c) },
+    { id: 'gallery', src: ['museum/gallery.js?v=14'], ready: () => !!window.AtlasGallery, render: (el, c) => AtlasGallery.render(el, c) },
   ];
   const KEY = 'atlas-museum-room';
   const esc = s => String(s == null ? '' : s).replace(/[&<>"]/g, c => ({ '&': '&amp;', '<': '&lt;', '>': '&gt;', '"': '&quot;' }[c]));

diff --git a/atlas/index.html b/atlas/index.html
@@ -2559,7 +2559,7 @@ window.AtlasRgdTimer = function (btn, ms, alive) {
 <link rel="stylesheet" href="worldmap.css?v=19">
 <link rel="stylesheet" href="museum.css?v=4">
 <script src="worldmap.js?v=40"></script>
-<script src="museum.js?v=14"></script>
+<script src="museum.js?v=15"></script>
 <script src="npc/npc.js?v=46"></script>
 <script src="avtalk.js?v=4"></script>
 <script>/* Page states as classes on <html> (2026-11-21) — html.cov-on: the 3D view / Historia / a sheet / a level sheet is open;

diff --git a/claude/museum-spec.md b/claude/museum-spec.md
@@ -46,6 +46,7 @@
     `python3 tools/museum-similarity.py 写真.jpg 描画.png --box x0,y0,x1,y1 --out 並べた画像.png` で比べる。
     structure（形と配置）・edges（模様の線の位置）・layout（明暗や色の配置）・palette（素材の色）と total（0〜100）。点数が上がる変更だけを採用し、並べた画像を目でも確かめる。
     記録：オスマン帝国の盤（バックギャモン面、V&A の写真 2012FP3720）total 18.9 → 35.0（2026-11-21、帯とメダイヨンを写真の透かし彫りに合わせた）。
+    記録：木画紫檀棊局（正倉院の写真 CO0000000418〜436）上面 total 59.2 → 71.4、側面B（429）18.1 → 31.7（2026-11-21、盤面の余白と花眼、木画の筋、側面の菱文帯と狩猟図、床脚の刳り形・畳摺・引き出しの位置を写真に合わせた）。
   - スマホで遠目に見たときのちらつき・白飛びがないこと（カメラの near/far を狭く、テクスチャはミップマップと異方性フィルタ、トーンマップの露出 .85、重なる面は polygonOffset）。
 - 収蔵品（2026-11-21）：
   - ウルの王族のゲーム盤（大英博物館 120834）— ポータルのウルの3D盤（`atlas/models/ur.js`）をそのまま使う（実物そっくりの出来）。
